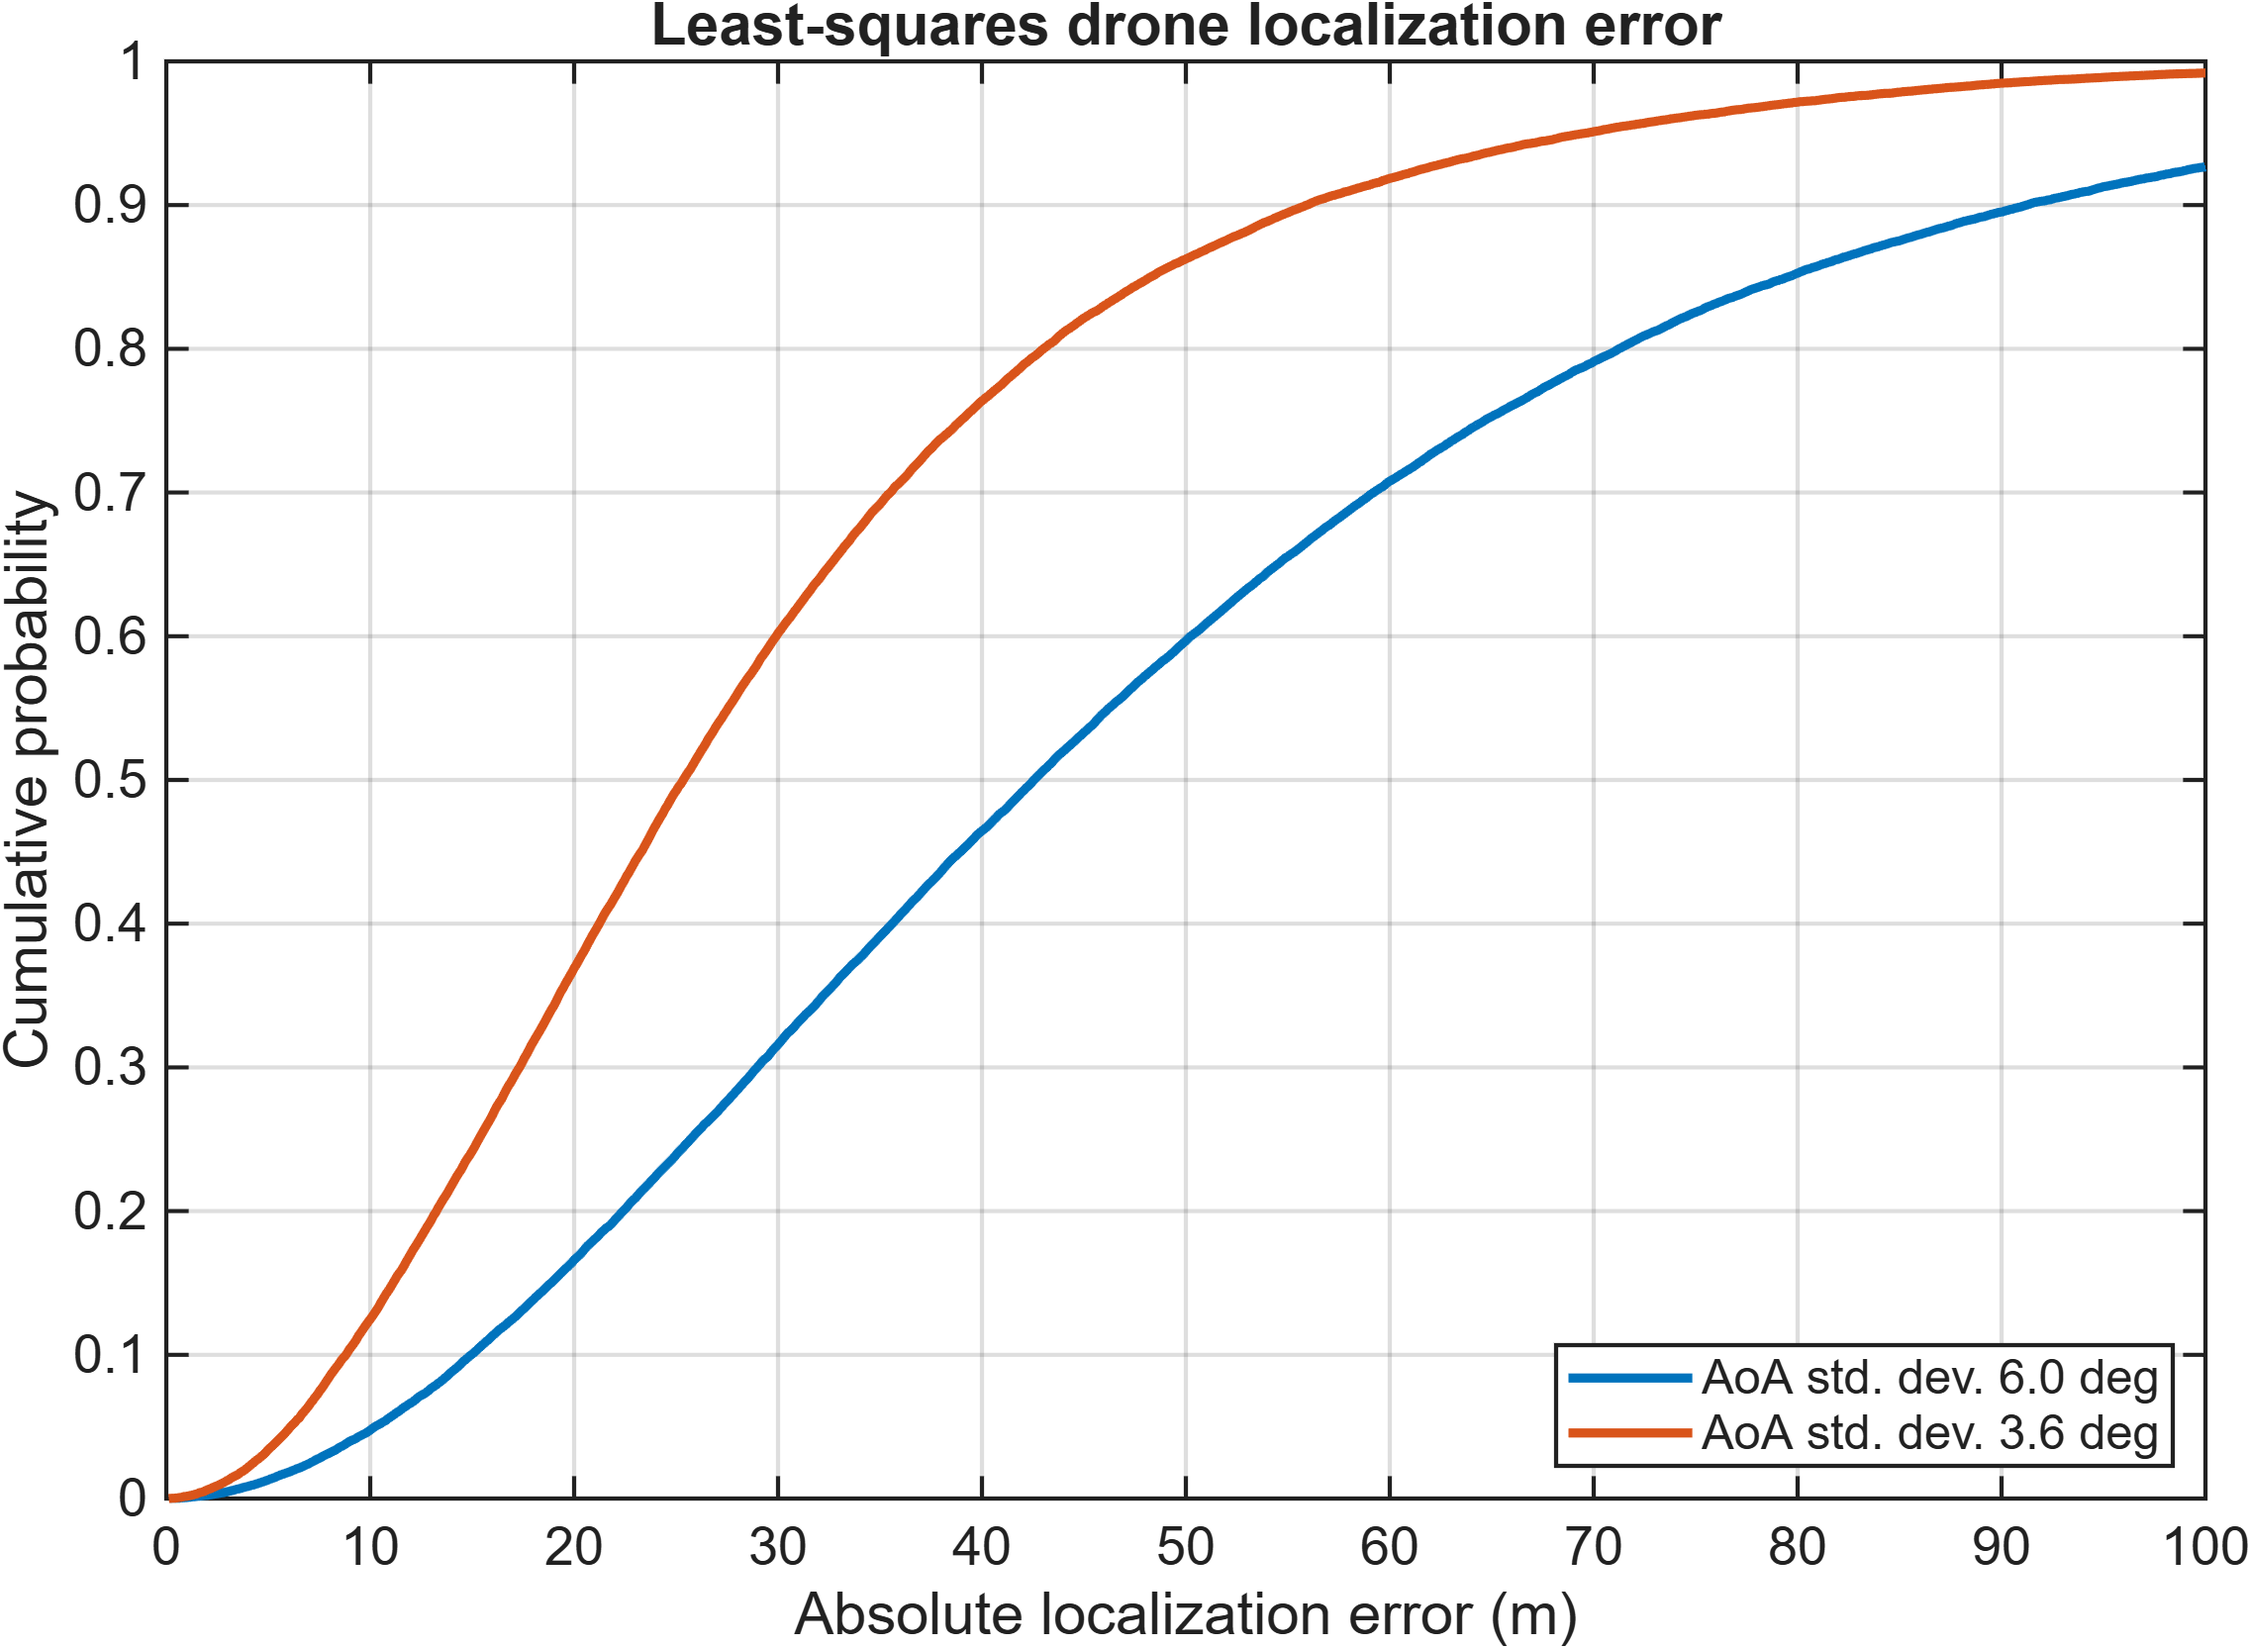
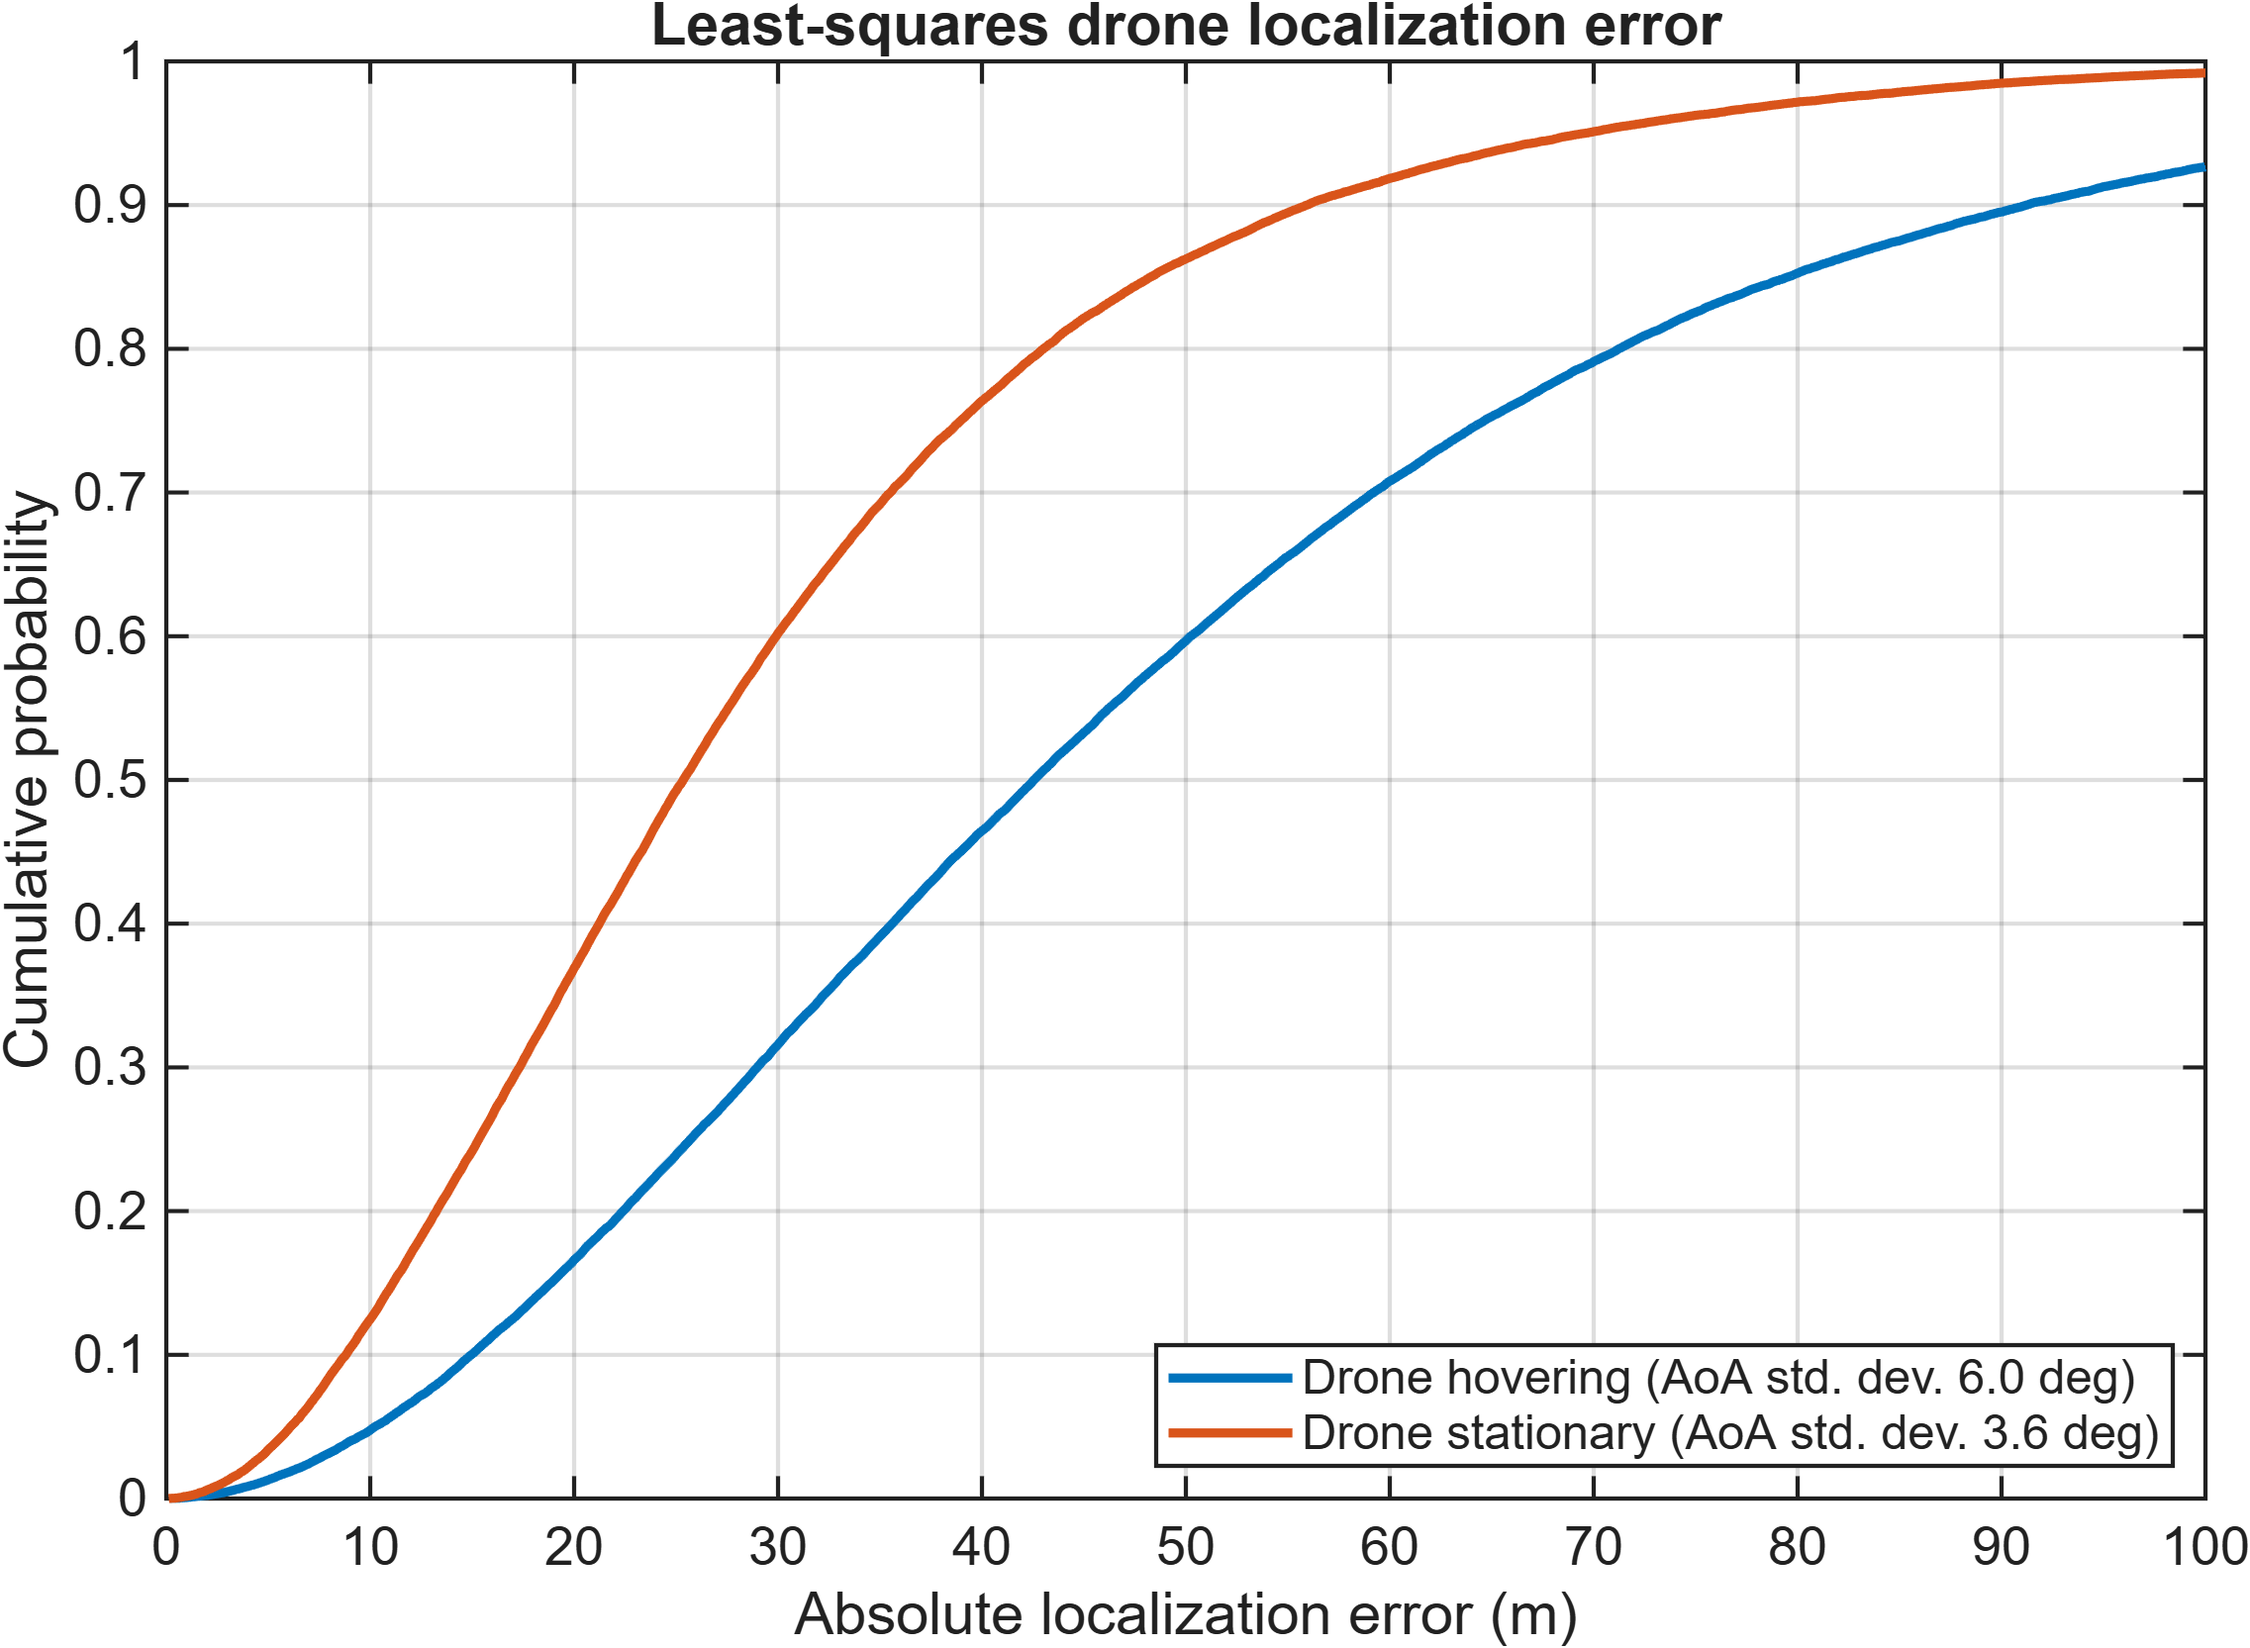
Align localization CDF with hovering and stationary cases

Changed region(s): [[0.4998, 0.812, 0.9683, 0.9057]]

diff --git a/code/simulateDroneLocalization.m b/code/simulateDroneLocalization.m
@@ -176,7 +176,6 @@ function results = simulateDroneLocalization(outputDirectory, rngSeed)
 
     createTrajectoryPlots(results, outputDirectory);
     createPaperCdfPlot(results, outputDirectory);
-    createEstimatorComparisonPlot(results, outputDirectory);
 end
 
 function summary = createSummary(leastSquaresErrorsM, auxiliaryErrorsM, ...
@@ -285,61 +284,15 @@ function createPaperCdfPlot(results, outputDirectory)
     xlabel("Absolute localization error (m)");
     ylabel("Cumulative probability");
     title("Least-squares drone localization error");
-    legend(compose("AoA std. dev. %.1f deg", ...
-        results.settings.angleErrorStdDeg), Location="southeast");
+    legend([
+        compose("Drone hovering (AoA std. dev. %.1f deg)", ...
+            results.settings.angleErrorStdDeg(1))
+        compose("Drone stationary (AoA std. dev. %.1f deg)", ...
+            results.settings.angleErrorStdDeg(2))
+    ], Location="southeast");
     set(gca, FontName="Arial", FontSize=13, LineWidth=1);
 
     outputBaseName = fullfile(outputDirectory, "localization_error_cdf");
-    exportgraphics(figureHandle, outputBaseName + ".png", Resolution=300);
-    exportgraphics(figureHandle, outputBaseName + ".pdf", ...
-        ContentType="vector");
-    close(figureHandle);
-end
-
-function createEstimatorComparisonPlot(results, outputDirectory)
-    figureHandle = figure(Color="white", Position=[100 100 900 600]);
-    colors = [
-        0.00 0.45 0.74
-        0.85 0.33 0.10
-    ];
-
-    hold on;
-    legendLabels = strings( ...
-        2 * length(results.settings.angleErrorStdDeg), 1);
-    legendIndex = 0;
-    for caseIndex = 1:length(results.settings.angleErrorStdDeg)
-        [leastSquaresCdf, leastSquaresErrorM] = ecdf( ...
-            results.leastSquaresErrorsM(caseIndex, :));
-        [auxiliaryCdf, auxiliaryErrorM] = ecdf( ...
-            results.auxiliaryErrorsM(caseIndex, :));
-
-        plot(leastSquaresErrorM, leastSquaresCdf, ...
-            Color=colors(caseIndex, :), LineWidth=2.1);
-        plot(auxiliaryErrorM, auxiliaryCdf, "--", ...
-            Color=colors(caseIndex, :), LineWidth=2.1);
-
-        legendIndex = legendIndex + 1;
-        legendLabels(legendIndex) = sprintf( ...
-            "LS, %.1f deg", results.settings.angleErrorStdDeg(caseIndex));
-        legendIndex = legendIndex + 1;
-        legendLabels(legendIndex) = sprintf( ...
-            "Auxiliary, %.1f deg", ...
-            results.settings.angleErrorStdDeg(caseIndex));
-    end
-    hold off;
-
-    grid on;
-    box on;
-    xlim([0 100]);
-    ylim([0 1]);
-    xlabel("Absolute localization error (m)");
-    ylabel("Cumulative probability");
-    title("Localization estimator comparison");
-    legend(legendLabels, Location="southeast");
-    set(gca, FontName="Arial", FontSize=13, LineWidth=1);
-
-    outputBaseName = fullfile( ...
-        outputDirectory, "localization_error_cdf_all_estimators");
     exportgraphics(figureHandle, outputBaseName + ".png", Resolution=300);
     exportgraphics(figureHandle, outputBaseName + ".pdf", ...
         ContentType="vector");

diff --git a/code/publishRepositoryResults.m b/code/publishRepositoryResults.m
@@ -21,6 +21,23 @@ function publishRepositoryResults()
         mkdir(tableDirectory);
     end
 
+    deprecatedFigureNames = [
+        "localization_error_cdf_all_estimators.png"
+        "localization_error_cdf_all_estimators.pdf"
+    ];
+    for figureIndex = 1:length(deprecatedFigureNames)
+        generatedFigure = fullfile( ...
+            generatedDirectory, deprecatedFigureNames(figureIndex));
+        publishedFigure = fullfile( ...
+            figureDirectory, deprecatedFigureNames(figureIndex));
+        if isfile(generatedFigure)
+            delete(generatedFigure);
+        end
+        if isfile(publishedFigure)
+            delete(publishedFigure);
+        end
+    end
+
     previousRandomState = rng;
     randomStateCleanup = onCleanup(@() rng(previousRandomState));
     rng(12345);
@@ -33,7 +50,6 @@ function publishRepositoryResults()
         "aoa_column3_histogram.png"
         "aoa_difference_histogram.png"
         "localization_error_cdf.png"
-        "localization_error_cdf_all_estimators.png"
         "localization_trajectory_sigma_3.6deg.png"
         "localization_trajectory_sigma_6deg.png"
     ];

diff --git a/docs/VALIDATION.md b/docs/VALIDATION.md
@@ -82,7 +82,7 @@ These points were documented rather than silently corrected:
 - Replaced platform-specific PDF crop/delete commands with `exportgraphics`.
 - Added explicit, correct plot labels and 300 dpi PNG/vector PDF exports.
 - Added summary CSV and MAT outputs.
-- Kept the paper-style least-squares CDF separate from the optional
-  auxiliary-estimator comparison.
+- Kept the published CDF focused on the paper's least-squares hovering and
+  stationary cases; no auxiliary-estimator curve is displayed.
 - Added `publishRepositoryResults.m` so every figure displayed on GitHub is
   regenerated and exported directly by MATLAB without image post-processing.

diff --git a/results/README.md b/results/README.md
@@ -14,7 +14,6 @@ The generated directory contains:
 
 - AoA histograms as 300 dpi PNG and vector PDF files
 - Localization trajectory plots
-- Least-squares localization-error CDF
-- Optional least-squares/auxiliary-estimator comparison
+- Least-squares localization-error CDF for hovering and stationary cases
 - CSV summary tables
 - MAT result files

diff --git a/README.md b/README.md
@@ -124,6 +124,9 @@ editor was used.
 
 ### Localization Error
 
+The larger-error curve represents the hovering-drone measurements, while the
+smaller-error curve represents the stationary-drone measurements.
+
 ![Least-squares localization error CDF](results/figures/localization_error_cdf.png)
 
 ### Estimated Drone Positions
